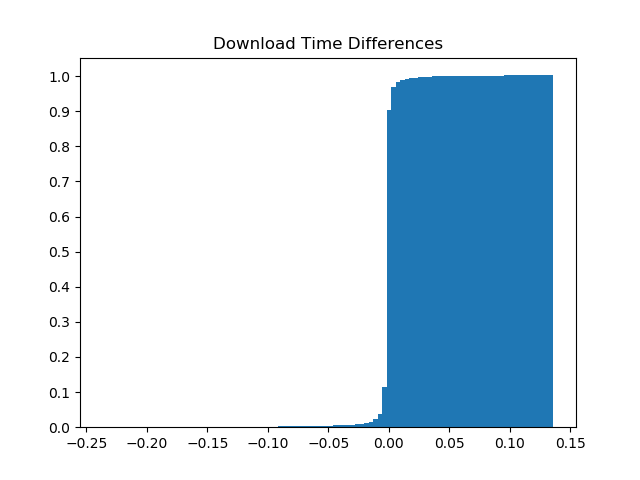
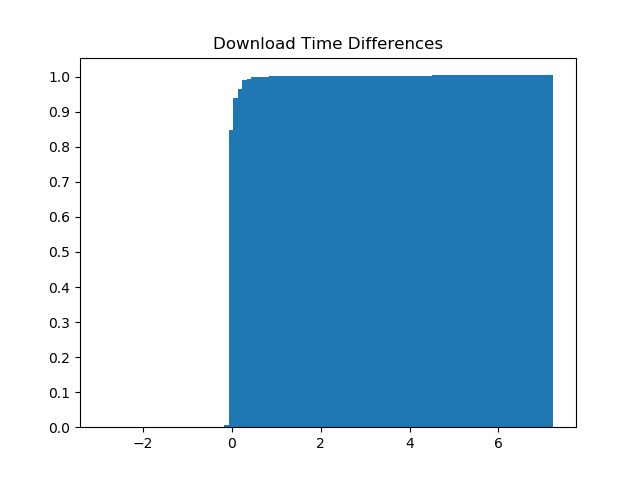
Adding files

diff --git a/utils/chain.py b/utils/chain.py
@@ -1,0 +1,127 @@
+import csv
+import numpy as np
+import matplotlib.pyplot as plt
+import datetime
+
+trace = '/home/msiquier/IOSTACK/ArcturTrace/to_execute_arctur_equispaced.csv'
+trace2 = '/home/msiquier/IOSTACK/ArcturTrace/arctur_trace_final.csv'
+
+self.chain = dict()
+
+with open(trace, 'rb') as csvfile:
+    data = csv.reader(csvfile, delimiter=',')
+    for row in data:
+
+        site = row[0]
+        #for trace:
+        date = datetime.datetime.strptime(row[1], '%Y-%m-%d %H:%M:%S.%f')
+        #for trace2:
+        date = datetime.datetime.strptime(row[1], '%Y-%m-%d %H:%M:%S')
+        oid = row[3]
+        object_name = site + '_' + str(oid) + '_' + str(row[4]) + row[6]
+
+        if site not in self.chain:
+            self.chain[site] = Chain()
+        self.chain[site].add(oid, object_name, site)
+        data = self.get_prefetched(site, oid, objname)
+                    self.prefetch_objects(site, oid, account, request)
+
+
+class Chain():
+
+    def __init__(self, logger=None, chainsave='chain.p', maxseconds=60, prth=0.5, twolevels=False): 
+        self.logger = logger
+        self._chain = {}
+        self._chainsave = chainsave
+        self._maxseconds = maxseconds
+        self._prth = prth
+        self._twolevels = twolevels
+        self._last_oid = None
+        self._last_ts = None
+
+    def __del__(self):
+        with open(self._chainsave, 'wb') as fp:
+            pickle.dump(self._chain, fp)
+
+
+    def save_chain(self):
+        with open(self._chainsave, 'wb') as fp:
+            pickle.dump(self._chain, fp)
+
+    def auto_save(self, timer=30):
+        self.save_chain()
+        eventlet.sleep(timer)
+        self.auto_save(timer)
+        
+
+    def _get_object_chain(self, oid):
+        if oid in self._chain:
+            return sorted(self._chain[oid], key=lambda x: x.hits, reverse=True)
+        return []
+
+    def _set_object_chain(self, oid, objs_list):
+        self._chain[oid] = objs_list
+
+    def add(self, oid, name, container):
+        if oid not in self._chain:
+            self._chain[oid] = []
+    
+        diff = self._check_time_diff()
+        if diff:
+            objs = self._get_object_chain(self._last_oid)
+            found = False
+            for o in filter(lambda x: x.id()==oid, objs):
+                o.hit()
+                o.set_ts(diff)
+                found = True
+            if not found:
+                objs.append(ChainObject(oid, name, container, diff))
+            self._set_object_chain(self._last_oid, objs)
+        self._last_oid = oid
+        self._last_ts = dt.now()
+
+
+    def add_down_time(self, oid, ts):
+        for obj in self._chain:
+            objs = self._get_object_chain(obj)
+            for o in filter(lambda x: x.id()==oid, objs):
+                o.set_down_time(ts)
+            self._set_object_chain(obj, objs)
+
+
+    def _check_time_diff(self):
+        if self._last_ts:
+            diff = dt.now() - self._last_ts
+            if diff.total_seconds() < self._maxseconds:
+                return diff
+
+    def chain_stats(self):
+        self.chain_length()
+        for o in self._chain:
+            print "\tOBJECT: " + o
+            for och in self._chain[o]:
+                print "\t\tnext: " + och.object_to_string()
+
+    def chain_length(self):
+        print "Chain length: " + str(len(self._chain))
+
+    def get_probabilities(self, oid):
+        probs1 = self._probabilities(self._get_object_chain(oid))
+        if self._twolevels:
+            probs2 = dict()
+            for oi in probs1:
+                pr = self._probabilities(self._get_object_chain(oi))
+                pr = {k: ProbObject(v.container, v.name, v.probability*probs1[oi].probability, v.time_stamp) for k, v in pr.items()}
+                probs2.update(pr)
+            for oi in probs2:
+                if oi in probs1:
+                    probs1[oi].probability += probs2[oi].probability
+                else:
+                    probs1[oi] = probs2[oi]
+        objs =  filter(lambda (a,b): b.probability>self._prth, probs1.iteritems())
+        return sorted(objs, key=lambda (a,b): b.probability, reverse=True)
+
+    def _probabilities(self, chain):
+        total_hits = sum(o.hits for o in chain)
+        return {o.id(): ProbObject(o.object_container, o.object_name, o.hits/float(total_hits), (o.time_stamp.total_seconds()-o.down_time)) for o in chain}
+ 

diff --git a/utils/results_comparison.py b/utils/results_comparison.py
@@ -8,14 +8,15 @@ import matplotlib.pyplot as plt
 def main(file_noprefetch, file_prefetch, number):
 	noprefetch = csv.reader(file_noprefetch, delimiter='\t')
 	prefetch = csv.reader(file_prefetch, delimiter='\t')
-
+ 	sizes = []
 	total_no = 0
 	total_pref = 0
 	time_differences = []
 	for rown, row in zip(noprefetch, prefetch)[:number]:
 		total_no = total_no + float(rown[3])
 		total_pref = total_pref + float(row[3])
-		time_differences.append( (float(row[3]) - float(rown[3])) )
+		sizes.append(float(rown[4]))
+		time_differences.append( (float(rown[3]) - float(row[3])) )
 
 	print "Total download time with no prefetch: "+ str(total_no)
 	print "Total download time with prefetch: "+ str(total_pref)
@@ -23,7 +24,7 @@ def main(file_noprefetch, file_prefetch, number):
 
 def plots(data, title='', number=1, normal=True, boxplot=True, histo=True, ecdf=False):
 	if normal:
-		plt.stem(data)
+		plt.scatter(np.arange(0,len(data),1), data)
 		plt.title(title)
 		plt.show()
 
